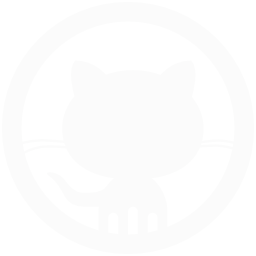
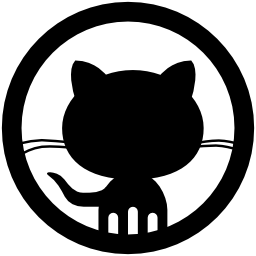
Restyled github navbar, minimally

diff --git a/index.html b/index.html
@@ -15,6 +15,7 @@
   </head>
   <body>
 	<div class="navbar navbar-default">
+
   <div class="navbar-header">
     <button type="button" class="navbar-toggle" data-toggle="collapse" data-target=".navbar-responsive-collapse">
       <span class="icon-bar"></span>
@@ -23,18 +24,14 @@
     </button>
     <a class="navbar-brand" href="#">Mattia Albergante</a>
   </div>
+
   <div class="navbar-collapse collapse navbar-responsive-collapse">
+  
+    <!-- Left side of things -->
     <ul class="nav navbar-nav">
       <li class="dropdown active">
         <a href="#" class="dropdown-toggle" data-toggle="dropdown">Professional Experience <b class="caret"></b></a>
         <ul id="JobDropdownView" class="dropdown-menu">
-<!--           <li><a href="#">Action</a></li>
-          <li><a href="#">Another action</a></li>
-          <li><a href="#">Something else here</a></li> 
-          <li class="divider"></li>
-          <li class="dropdown-header">Education</li>
-           <li><a href="#">Separated link</a></li>
-          <li><a href="#">One more separated link</a></li> -->
         </ul>
       </li>
       <li><a href="#">Projects</a></li>
@@ -42,8 +39,8 @@
     </ul>
 
 
+    <!-- Right side of things -->
     <ul class="nav navbar-nav navbar-right">
-    <div class="navbar-collapse collapse navbar-responsive-collapse">
       <li class="dropdown">
         
         <a href="#" class="dropdown-toggle" data-toggle="dropdown">
@@ -62,7 +59,6 @@
       </li>
     </div>
     </ul>
-  </div>
 </div>
 
 
@@ -118,7 +114,13 @@
 
   <!-- Template for github dropdown item -->
   <script type="text/template" id="github-dropdown-item-template">
-      <div><%= item.get('name') %> </div>
+      <a href=
+      <%= item.get('html_url') %>
+      >
+        <div>
+          <%=item.get('name')  %>
+        </div>
+      </a>
   </script>
 
 

diff --git a/css/mainApp.css b/css/mainApp.css
@@ -13,7 +13,7 @@ img.dropdownImage {
 }
 
 img.navbar-img{
-  width:  30px;
+  width:  15px;
   height: auto;
 }
 .JobDropdownViewItem{
